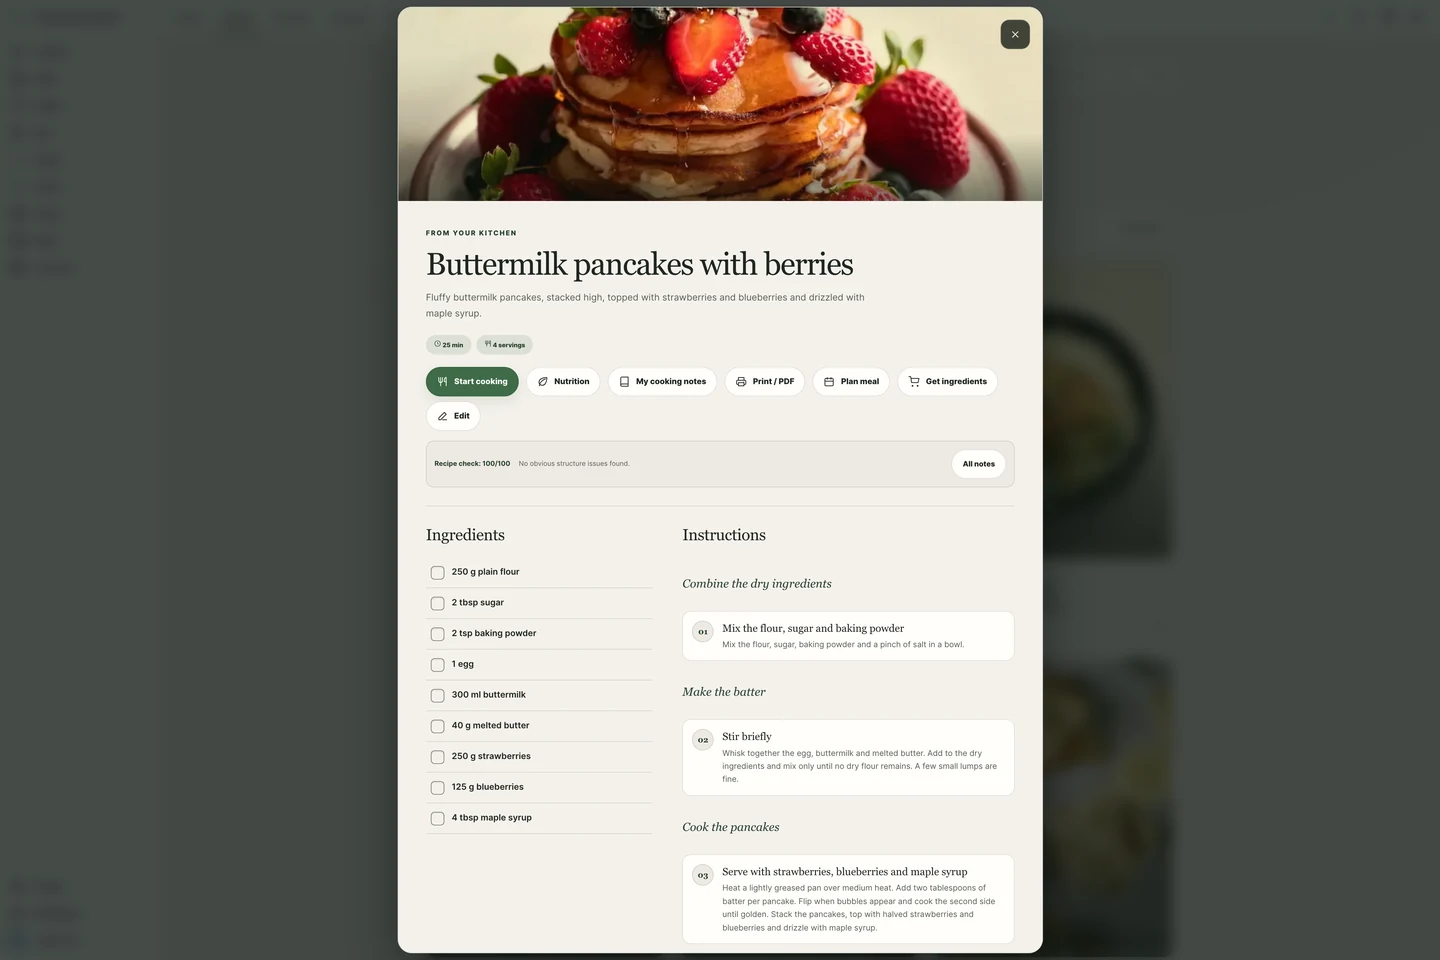
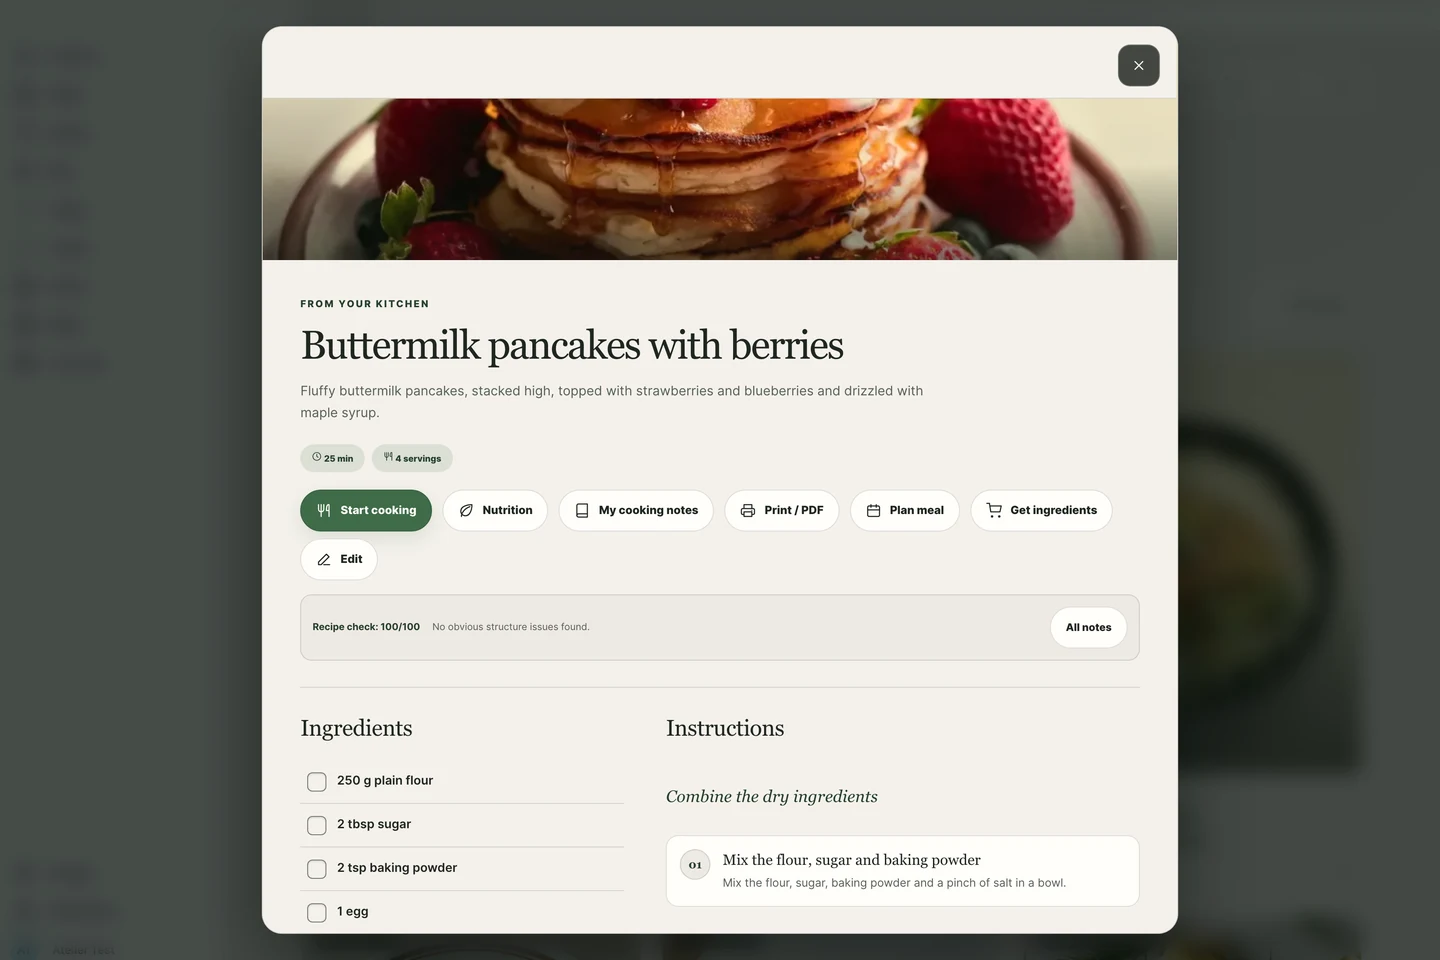
Recapture recipe and phone README shots with the product's own layout and uniform scale

diff --git a/scripts/capture-readme-shots.py b/scripts/capture-readme-shots.py
@@ -165,10 +165,10 @@ def start_cooking(page) -> None:
 
 # Count the elements of the recipe dialog that a scroll position cuts through or crowds against the header strip
 # (the sticky close button draws a strip 13 px below itself) or the bottom edge.
-CUTS = """(modal, withBar) => {
+CUTS = """(modal, withBar, margin = 14, tolerance = 0, ingredientsClean = true) => {
   const box = modal.getBoundingClientRect();
   const bar = modal.querySelector(':scope > .modal-close');
-  const edges = [[box.bottom - 14, 0]];
+  const edges = [[box.bottom - margin, margin]];
   if (bar && withBar) edges.push([bar.getBoundingClientRect().bottom + 13, 7]);
   // The cooking dialog's sticky step bar covers what scrolls under it: its top edge must not cut anything either.
   const actions = modal.querySelector('.cook-actions');
@@ -179,40 +179,43 @@ CUTS = """(modal, withBar) => {
   collect(modal);
   for (const el of all) {
     if (el === bar || bar?.contains(el) || el.closest('.cook-actions') || el.closest('.modal-hero') || el.matches('.modal-hero')) continue;
+    // The ingredient list runs on like any list in a scrolling dialog: a row border may reach the edge, its text may not.
+    if (el.matches('label.ingredient') || (el.closest('label.ingredient') && !ingredientsClean)) continue;
     const r = el.getBoundingClientRect();
     if (r.height < 4 || r.height > 130 || r.width < 4) continue;
     // A group heading just above the edge would stand alone, its card cut off below it.
-    if (/^H[1-6]$/.test(el.tagName) || el.matches('.step-group, .group-title') ) { if (r.bottom > box.bottom - 70 && r.top < box.bottom) cuts += 1; continue; }
-    if (edges.some(([line, gap]) => r.top < line + gap && r.bottom > line)) cuts += 1;
+    if (/^H[1-6]$/.test(el.tagName) || el.matches('.step-group, .group-title') ) { if (r.bottom > box.bottom - 50 && r.top < box.bottom) cuts += 1; continue; }
+    if (edges.some(([line, gap]) => r.top < line + gap && r.bottom > line + tolerance)) cuts += 1;
   }
   return cuts;
 }"""
 
 
-def fit_recipe_top(page) -> None:
-    """Show the recipe dialog from its top (photo, name, actions), ending on a gap between two rows.
+CLIP: dict | None = None
 
-    The dialog's own height is trimmed (it stays centred) until no text or box is cut by its bottom edge.
+
+def fit_recipe_top(page) -> None:
+    """Show the recipe dialog near its top (photo, name, actions) with the product's own layout.
+
+    The dialog keeps its stylesheet max-height (it stops growing at 1040 px). The viewport is made just tall enough
+    for that, the shot is cropped around the centred dialog back to the published aspect, and the dialog is scrolled
+    by the fewest pixels that put its bottom edge between two rows (as a reader would scroll it).
     """
+    global CLIP
     modal = page.locator(".modal >> visible=true").first
-    # A taller viewport (same aspect) lets the dialog reach past the two-column rows where a clean edge exists.
-    grow = float(os.environ.get("GROW", 1.42))
-    page.set_viewport_size({"width": round(DESKTOP["width"] * grow), "height": round(DESKTOP["height"] * grow)})
-    page.wait_for_timeout(500)
-    full = int(modal.evaluate("m => m.getBoundingClientRect().height"))
-    # The hero photo may scroll up by a little, as long as it keeps filling the header strip with the close button.
-    for top in range(0, 1):
-        for height in range(full + 500, full - 40, -3):
-            modal.evaluate(f"m => {{ m.style.transition = 'none'; m.style.maxHeight = '{height}px'; m.scrollTop = {top}; }}")
-            page.wait_for_timeout(60)
-            if modal.evaluate(CUTS, False) == 0:
-                print("dialog height", height, "of", full, "scroll", top)
-                break
-        else:
-            continue
-        break
-    else:
-        raise SystemExit("no dialog height and scroll with a clean bottom edge")
+    tall = 1140
+    page.set_viewport_size({"width": DESKTOP["width"], "height": tall})
+    page.wait_for_timeout(400)
+    top = modal.evaluate(
+        "(m, [cuts, limit]) => { m.style.transition = 'none';"
+        " for (let t = 0; t <= limit; t += 1) { m.scrollTop = t; if (eval(cuts)(m, false, 14, 2) === 0) return t; }"
+        " return -1; }",
+        [CUTS, 200],
+    )
+    if top < 0:
+        raise SystemExit("no scroll position with a clean dialog bottom edge")
+    print("recipe dialog scroll", top)
+    CLIP = {"x": 0, "y": (tall - DESKTOP["height"]) // 2, "width": DESKTOP["width"], "height": DESKTOP["height"]}
     page.mouse.move(2, 2)
     page.wait_for_timeout(600)
 
@@ -263,26 +266,61 @@ PAGE_CUTS = """() => {
 }"""
 
 
-def fit_phone_viewport(page, check, keep_width: bool = False) -> None:
-    """Change the phone viewport height until nothing is cut at the bottom edge.
+def fit_phone_viewport(page, check) -> None:
+    """Shorten the phone viewport until nothing is cut at the bottom edge.
 
-    By default the width follows (same aspect, only shorter: a viewport wider than 425 px switches the card to its
-    tablet layout). With keep_width the width stays and the height moves both ways by at most 30 px, so the tile
-    is stretched by at most 3 percent when it is downscaled to 390 x 844.
+    The width follows (same aspect as the 390 x 844 tile, so nothing is stretched when downscaled; a viewport wider
+    than 425 px would switch the card to its tablet layout).
     """
-    if keep_width:
-        offsets = [0] + [sign * step for step in range(2, 31, 2) for sign in (1, -1)]
-    else:
-        offsets = list(range(0, -200, -2))
-    for offset in offsets:
+    for offset in range(0, -200, -2):
         height = PHONE["height"] + offset
-        width = PHONE["width"] if keep_width else round(height * PHONE["width"] / PHONE["height"])
+        width = round(height * PHONE["width"] / PHONE["height"])
         page.set_viewport_size({"width": width, "height": height})
         page.wait_for_timeout(180)
         if check() == 0:
             print("phone viewport height", height)
             return
     raise SystemExit("no phone viewport height with a clean bottom edge")
+
+
+TAB_ROW = 74
+
+
+def scroll_hero_into_view(page) -> None:
+    """Scroll the phone page just far enough that the hero card ends with its rounded bottom inside the viewport."""
+    box = page.locator("section.hero >> visible=true").first.bounding_box()
+    scrolled = page.evaluate("window.scrollY")
+    # At least the height of the in-card tab row, so it leaves under the app bar whole instead of showing half.
+    shift = max(TAB_ROW, round(box["y"] + box["height"] + scrolled + 18 - PHONE["height"]))
+    page.evaluate(f"window.scrollTo(0, {shift})")
+    page.wait_for_timeout(400)
+    print("phone page scroll", shift)
+
+
+def scroll_until_clean(page) -> None:
+    """Scroll the phone page (it keeps its 425 x 920 viewport) the fewest pixels that leave no cut text at the bottom."""
+    for shift in range(0, 160, 2):
+        page.evaluate(f"window.scrollTo(0, {shift})")
+        page.wait_for_timeout(120)
+        if page.evaluate(PAGE_CUTS) == 0:
+            print("phone page scroll", shift)
+            return
+    raise SystemExit("no phone page scroll with a clean bottom edge")
+
+
+def scroll_cook_dialog(page) -> None:
+    """Scroll the cooking dialog (natural size) the fewest pixels that leave no tool or timer card under the step bar."""
+    modal = page.locator(".modal >> visible=true").first
+    top = modal.evaluate(
+        "(m, [cuts, limit]) => { m.style.transition = 'none';"
+        " for (let t = 0; t <= limit; t += 1) { m.scrollTop = t; if (eval(cuts)(m, false) === 0) return t; }"
+        " return -1; }",
+        [CUTS, 500],
+    )
+    if top < 0:
+        raise SystemExit("no cooking dialog scroll without a cut card")
+    print("cooking dialog scroll", top)
+    page.wait_for_timeout(400)
 
 
 def fit_desktop_viewport(page, check) -> None:
@@ -296,25 +334,10 @@ def fit_desktop_viewport(page, check) -> None:
     raise SystemExit("no desktop viewport height with a clean bottom edge")
 
 
-def fit_cook_dialog(page) -> None:
-    """Trim the cooking dialog (it stays centred) so its sticky step bar covers no tool or timer card.
-
-    The dialog stays at its top: photo, step title and text, servings and the swipe hint are visible.
-    """
-    modal = page.locator(".modal >> visible=true").first
-    full = int(modal.evaluate("m => m.getBoundingClientRect().height"))
-    for height in range(full, full - 400, -2):
-        modal.evaluate(f"m => {{ m.style.transition = 'none'; m.style.maxHeight = '{height}px'; m.scrollTop = 0; }}")
-        page.wait_for_timeout(80)
-        if modal.evaluate(CUTS, False) == 0:
-            print("cooking dialog height", height, "of", full)
-            page.wait_for_timeout(500)
-            return
-    raise SystemExit("no cooking dialog height without a cut card")
-
-
 def shot(page, tmp: Path) -> Path:
-    page.screenshot(path=str(tmp))
+    global CLIP
+    page.screenshot(path=str(tmp), clip=CLIP) if CLIP else page.screenshot(path=str(tmp))
+    CLIP = None
     return tmp
 
 
@@ -356,6 +379,7 @@ def main() -> None:
                     open_recipe(page, theme)
                     if step == "cook":
                         start_cooking(page)
+                        scroll_cook_dialog(page)
                     else:
                         fit_recipe_top(page)
                 else:
@@ -381,16 +405,17 @@ def main() -> None:
                     modal = page.locator(".modal >> visible=true").first
                     if step == "cook":
                         start_cooking(page)
-                        fit_cook_dialog(page)
+                        scroll_cook_dialog(page)
                     else:
                         modal.evaluate("m => { m.scrollTop = 0; }")
                         fit_phone_viewport(page, lambda: modal.evaluate(CUTS, False))
                 else:
                     view(page, theme, mode, PHONE_BOARD)
-                    fit_phone_viewport(page, lambda: page.evaluate(PAGE_CUTS), keep_width=True)
-                    page.evaluate("window.scrollTo(0, 0)")
                     if mode == "dashboard":
                         fit_nav(page)
+                        scroll_hero_into_view(page)
+                    else:
+                        scroll_until_clean(page)
                 page.mouse.move(2, 2)
                 page.wait_for_timeout(500)
                 page.screenshot(path=str(tmp))
